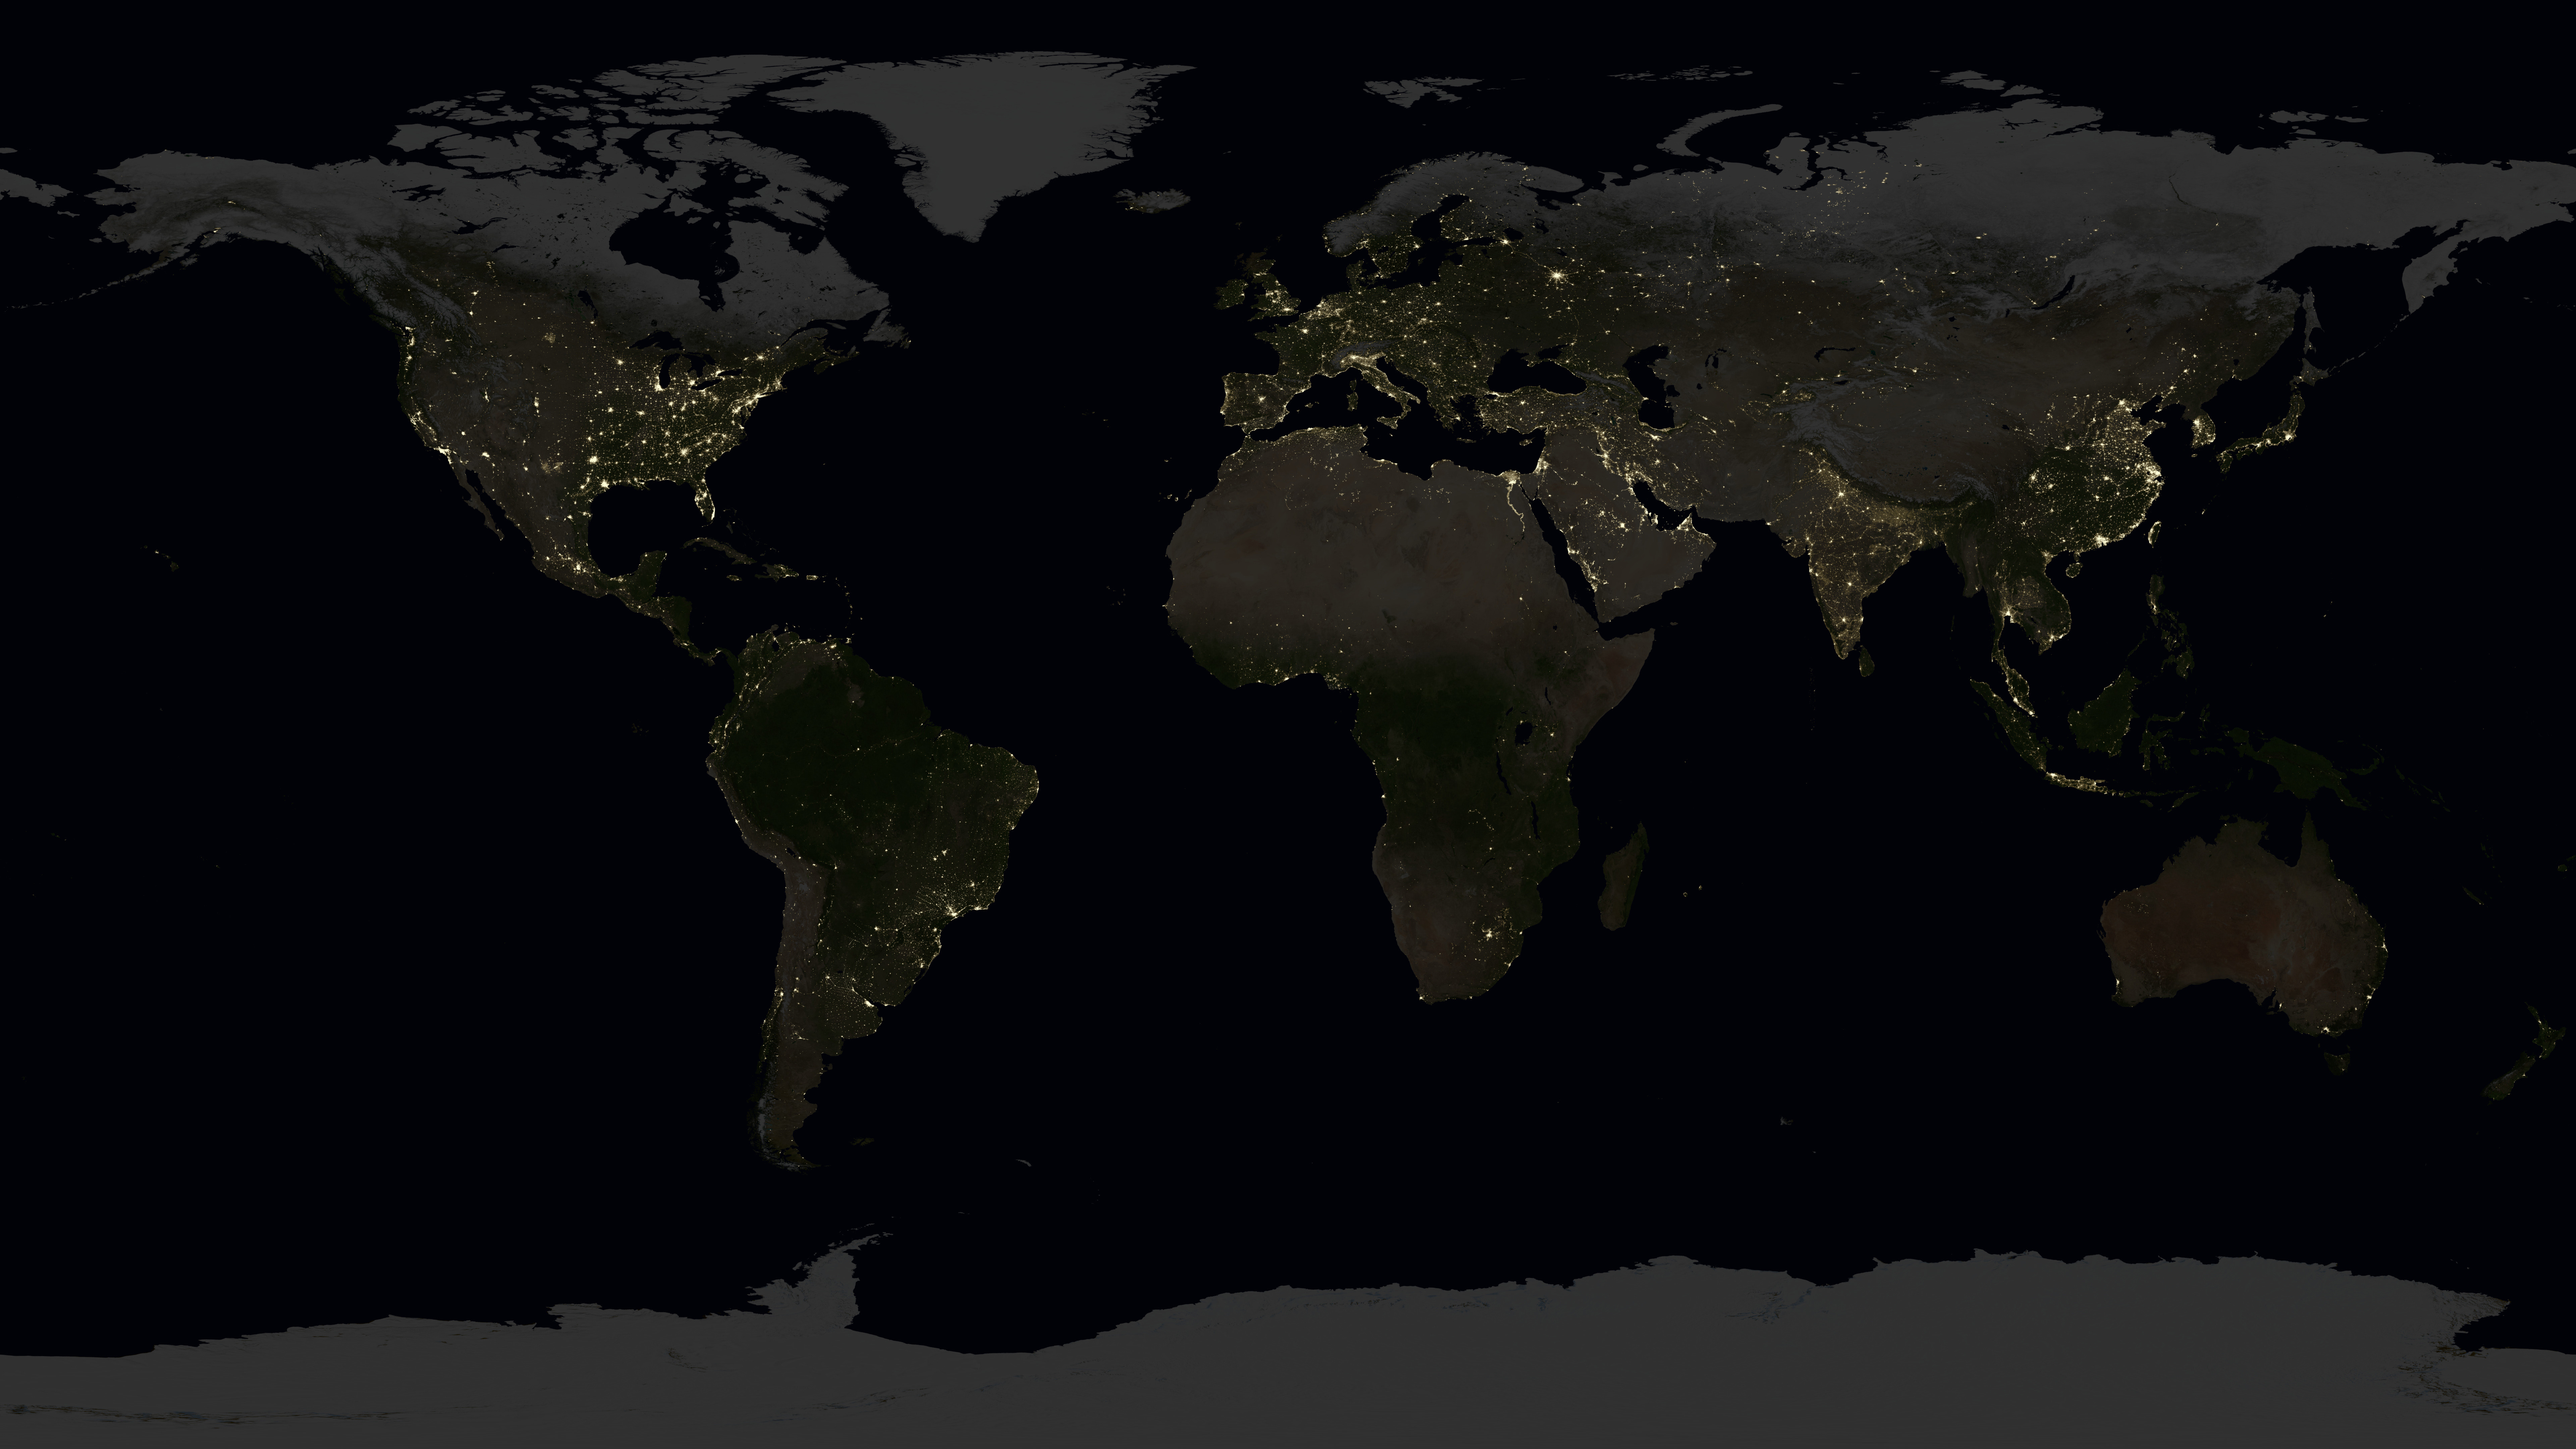
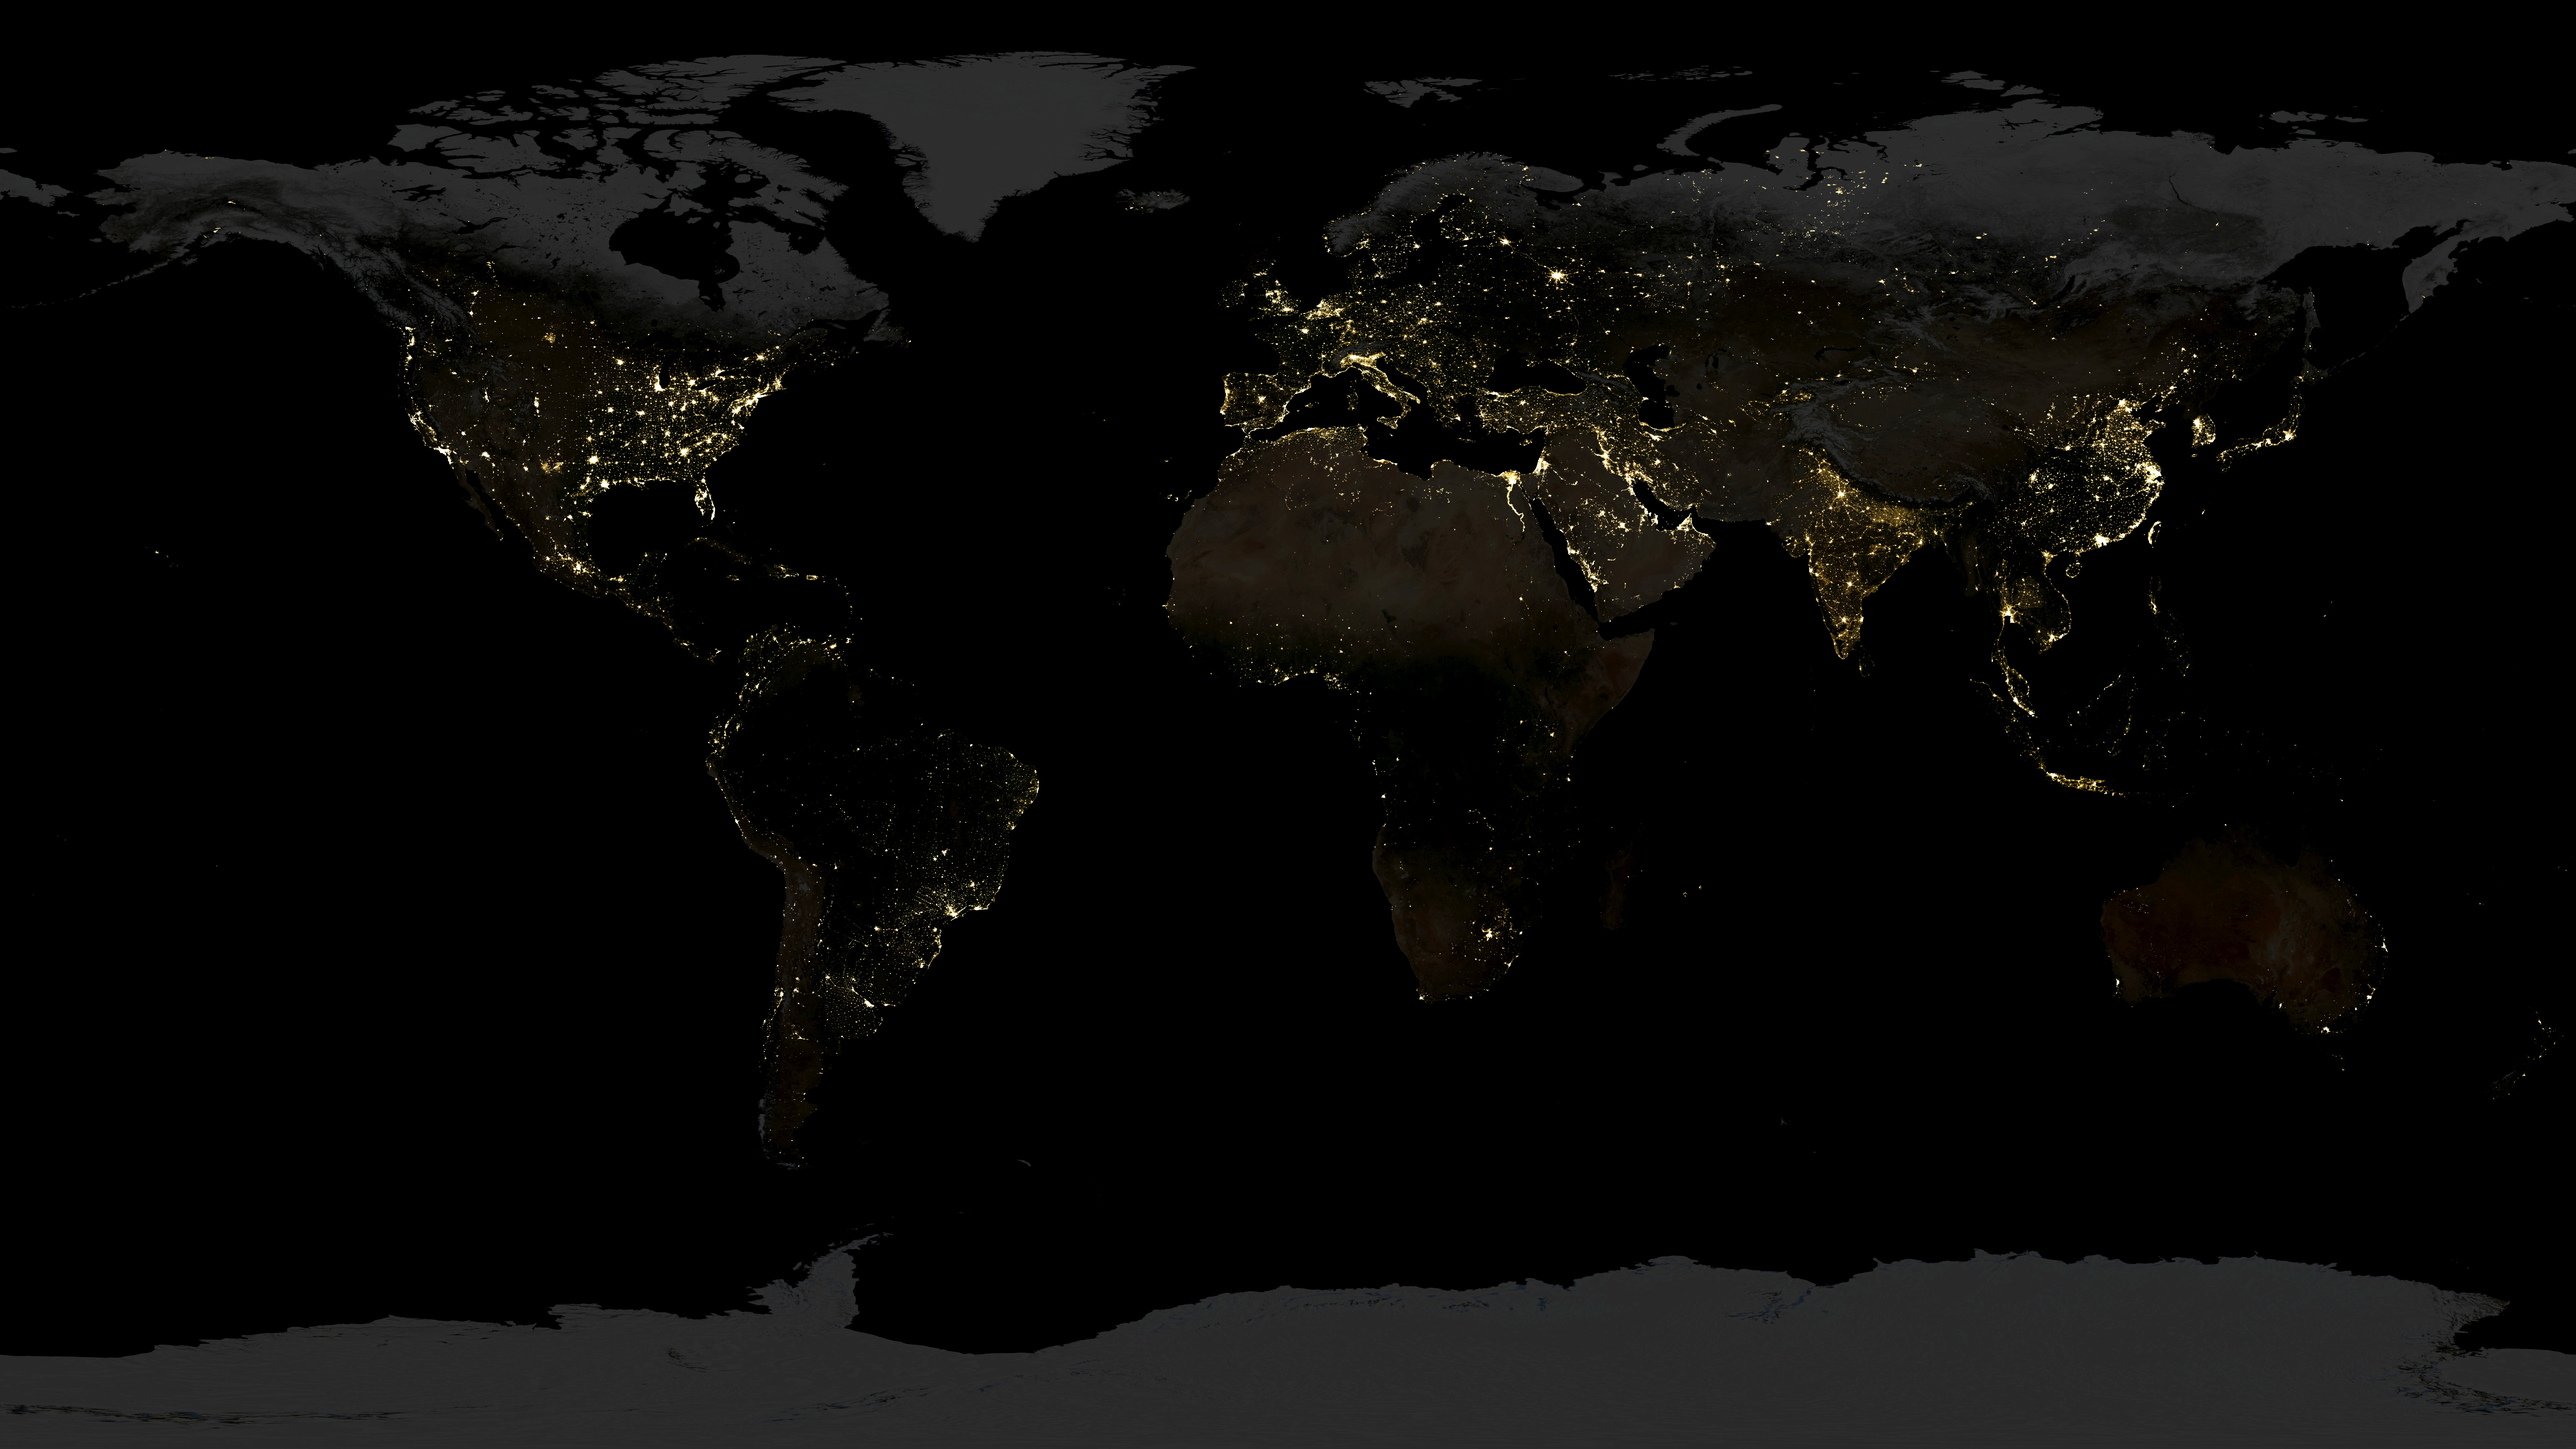
fix(globe): update params and textures

diff --git a/src/lib/utils/globeEnhancements.ts b/src/lib/utils/globeEnhancements.ts
@@ -39,36 +39,38 @@ import type { CustomRenderMethodInput } from 'maplibre-gl';
 import type maplibregl from 'maplibre-gl';
 
 /** Zoom level below which enhancements are fully opaque. */
-const FADE_IN_ZOOM = 3.0;
+const FADE_IN_ZOOM = 4.0;
 /** Zoom level above which enhancements are fully transparent. */
-const FADE_OUT_ZOOM = 7.5;
+const FADE_OUT_ZOOM = 8.0;
 
 function clamp01(value: number): number {
   return Math.min(Math.max(value, 0), 1);
 }
 
 /** Maximum opacity of the cloud layer (currently left at 0 so night lights / atmosphere stay readable). */
-const MAX_CLOUD_OPACITY = 0;
+const MAX_CLOUD_OPACITY = 0.8;
 /** Radius scale factor that floats the cloud sphere above the base globe surface. */
-const CLOUD_ALTITUDE_SCALE = 1.004;
+const CLOUD_ALTITUDE_SCALE = 1.009;
 /** Blue-white tint applied to the cloud texture colour channel. */
 const CLOUD_TINT_COLOR = new THREE.Color(0.88, 0.93, 1.0);
 /** Maximum opacity of the night-lights overlay. */
-const MAX_NIGHT_LIGHTS_OPACITY = 2;
+const MAX_NIGHT_LIGHTS_OPACITY = 1;
 /** Radius scale factor for the night-lights shell so it sits above the raster globe. */
 const NIGHT_LIGHTS_ALTITUDE_SCALE = 1.0015;
+/** Fraction of the basemap retained in the dominant blend mode; the rest is suppressed so city lights can win visually. */
+const NIGHT_LIGHTS_DOMINANT_BASEMAP_RETENTION = 0.35;
 /** Width of the smooth transition between day and night for city lights. */
 const NIGHT_LIGHTS_TERMINATOR_SOFTNESS = 0.22;
 /** Fade the night lights near the visible limb to avoid a hard edge. */
 const NIGHT_LIGHTS_LIMB_SOFTNESS = 0.22;
 /** Radius scale factor for the additive atmosphere shell. */
-const ATMOSPHERE_ALTITUDE_SCALE = 1.015;
+const ATMOSPHERE_ALTITUDE_SCALE = 1.012;
 /** Base opacity of the atmosphere shell before fresnel shaping. */
 const ATMOSPHERE_OPACITY = 1;
 /** Sky-blue day-side atmosphere tint. */
 const ATMOSPHERE_DAY_COLOR = new THREE.Color(0.34, 0.72, 1.0);
 /** Deeper twilight tint used around the terminator and dark side. */
-const ATMOSPHERE_NIGHT_COLOR = new THREE.Color(0.04, 0.16, 0.42);
+const ATMOSPHERE_NIGHT_COLOR = new THREE.Color(0.08, 0.24, 0.48);
 /** Fresnel exponent for the atmosphere rim; higher values tighten the halo. */
 const ATMOSPHERE_RIM_EXPONENT = 2.35;
 /** Start of the atmosphere night→day color blend across the terminator. */
@@ -85,9 +87,9 @@ const DEFAULT_BUMP_SCALE = 0.0045;
 /** Phong shininess exponent for ocean specular highlights. */
 const SPECULAR_SHININESS = 120.0;
 /** Overall strength of the ocean specular term after gloss/fresnel shaping. */
-const SPECULAR_INTENSITY = 1;
+const SPECULAR_INTENSITY = 1.2;
 /** Broadens the highlight so water reads less like polished metal. */
-const SPECULAR_ROUGHNESS = 0.24;
+const SPECULAR_ROUGHNESS = 0.64;
 /** Blend amount for view-angle fresnel shaping on the water highlight. */
 const SPECULAR_FRESNEL_STRENGTH = 0.12;
 /** Width of the terminator soft-transition band (in dot-product units). */
@@ -99,11 +101,13 @@ const DEFAULT_SUNLIGHT_INTENSITY = 1;
 
 /**
  * Named blend modes available for the night-lights shell.
+ * "Dominant" keeps only a fixed share of the basemap: src*alpha + dst*k.
  * "Additive" adds RGB directly (classic glow, alpha ignored by WebGL blender).
  * "Screen" approximates CSS screen blend: src + dst*(1-src) — softer glow.
  * "Normal" uses standard alpha compositing: src*alpha + dst*(1-alpha).
  */
 export const NIGHT_LIGHTS_BLEND_MODES = {
+  dominant: 'Dominant',
   additive: 'Additive',
   screen: 'Screen',
   normal: 'Normal'
@@ -211,6 +215,8 @@ const nightLightsFragmentShader = /* glsl */ `
   uniform vec3      uCameraPos;
   uniform vec3      uSunDir;
   uniform float     uOpacity;
+  uniform float     uDominantBlend;
+  uniform float     uDominantDimStrength;
   uniform float     uTerminatorSoftness;
   uniform float     uLimbSoftness;
 
@@ -228,9 +234,19 @@ const nightLightsFragmentShader = /* glsl */ `
     float nightSide = 1.0 - smoothstep(-uTerminatorSoftness, uTerminatorSoftness, nDotL);
     // Fade near the limb so the visible edge blends softly into the atmosphere.
     float limbFade = smoothstep(0.0, uLimbSoftness, nDotV);
+    float nightMask = nightSide * limbFade;
 
     vec3 nightColor = texture2D(uNightMap, vUv).rgb;
-    float alpha = max(max(nightColor.r, nightColor.g), nightColor.b) * nightSide * limbFade * uOpacity;
+    float alpha = max(max(nightColor.r, nightColor.g), nightColor.b) * nightMask * uOpacity;
+
+    if (uDominantBlend > 0.5) {
+      // In dominant mode, dim the basemap across the dark hemisphere while
+      // keeping the city-light color contribution tied to the texture itself.
+      float dimAlpha = nightMask * uDominantDimStrength;
+      gl_FragColor = vec4(nightColor * alpha, dimAlpha);
+      return;
+    }
+
     gl_FragColor = vec4(nightColor, alpha);
   }
 `;
@@ -301,7 +317,7 @@ export class GlobeEnhancementsLayer {
   private sunPolarDeg = 90;
   private sunlightIntensity = DEFAULT_SUNLIGHT_INTENSITY;
   private specularDebugEnabled = false;
-  private nightLightsBlendMode: NightLightsBlendMode = 'additive';
+  private nightLightsBlendMode: NightLightsBlendMode = 'dominant';
 
   constructor(
     private readonly cloudUrl: string,
@@ -339,17 +355,44 @@ export class GlobeEnhancementsLayer {
   }
 
   private _applyNightLightsBlendMode(mat: THREE.ShaderMaterial, mode: NightLightsBlendMode): void {
-    if (mode === 'screen') {
+    if (mode === 'dominant') {
+      // Dim the basemap only where the shader marks the dark hemisphere, while
+      // the source color carries the masked city-light contribution itself.
+      mat.blending = THREE.CustomBlending;
+      mat.blendEquation = THREE.AddEquation;
+      mat.blendSrc = THREE.OneFactor;
+      mat.blendDst = THREE.OneMinusSrcAlphaFactor;
+      mat.blendSrcAlpha = THREE.ZeroFactor;
+      mat.blendDstAlpha = THREE.OneFactor;
+      mat.blendEquationAlpha = THREE.AddEquation;
+      mat.blendAlpha = 0;
+      mat.uniforms.uDominantBlend.value = 1;
+    } else if (mode === 'screen') {
       // Screen ≈ src + dst*(1-src): use custom blending with factor ONE / ONE_MINUS_SRC_COLOR.
       mat.blending = THREE.CustomBlending;
       mat.blendEquation = THREE.AddEquation;
       mat.blendSrc = THREE.OneFactor;
       mat.blendDst = THREE.OneMinusSrcColorFactor;
+      mat.blendSrcAlpha = THREE.ZeroFactor;
+      mat.blendDstAlpha = THREE.OneFactor;
+      mat.blendEquationAlpha = THREE.AddEquation;
+      mat.blendAlpha = 0;
+      mat.uniforms.uDominantBlend.value = 0;
     } else if (mode === 'normal') {
       mat.blending = THREE.NormalBlending;
+      mat.blendSrcAlpha = null;
+      mat.blendDstAlpha = null;
+      mat.blendEquationAlpha = null;
+      mat.blendAlpha = 0;
+      mat.uniforms.uDominantBlend.value = 0;
     } else {
       // additive (default): src + dst; Three.js adds raw RGB, alpha unused by blender.
       mat.blending = THREE.AdditiveBlending;
+      mat.blendSrcAlpha = null;
+      mat.blendDstAlpha = null;
+      mat.blendEquationAlpha = null;
+      mat.blendAlpha = 0;
+      mat.uniforms.uDominantBlend.value = 0;
     }
     mat.needsUpdate = true;
   }
@@ -401,6 +444,8 @@ export class GlobeEnhancementsLayer {
         uCameraPos: { value: new THREE.Vector3(0, 0, 2) },
         uSunDir: { value: new THREE.Vector3(0, 0, 1) },
         uOpacity: { value: 0 },
+        uDominantBlend: { value: 0 },
+        uDominantDimStrength: { value: 1 - NIGHT_LIGHTS_DOMINANT_BASEMAP_RETENTION },
         uTerminatorSoftness: { value: NIGHT_LIGHTS_TERMINATOR_SOFTNESS },
         uLimbSoftness: { value: NIGHT_LIGHTS_LIMB_SOFTNESS }
       },
@@ -556,6 +601,7 @@ export class GlobeEnhancementsLayer {
       u.uCameraPos.value.copy(this._cameraPos);
       u.uSunDir.value.copy(this._sunDir);
       u.uOpacity.value = t * MAX_NIGHT_LIGHTS_OPACITY;
+      u.uDominantDimStrength.value = t * (1 - NIGHT_LIGHTS_DOMINANT_BASEMAP_RETENTION);
     }
     if (this.specMesh) {
       const u = this.specMesh.material.uniforms;

diff --git a/src/lib/components/Globe.svelte b/src/lib/components/Globe.svelte
@@ -22,7 +22,11 @@
   } from '$lib/utils/globeGeojson';
   import { fade, slide } from 'svelte/transition';
   import { PUBLIC_MAPTILER_KEY } from '$env/static/public';
-  import { GlobeEnhancementsLayer, NIGHT_LIGHTS_BLEND_MODES, type NightLightsBlendMode } from '$lib/utils/globeEnhancements';
+  import {
+    GlobeEnhancementsLayer,
+    NIGHT_LIGHTS_BLEND_MODES,
+    type NightLightsBlendMode
+  } from '$lib/utils/globeEnhancements';
 
   // ---- Props ----
   type Props = {
@@ -106,7 +110,7 @@
   let activeCityAdcode = $state<string | null>(null);
   let viewZoom = $state(1.5);
   let viewTime = $state(new Date());
-  let nightLightsBlendMode = $state<NightLightsBlendMode>('additive');
+  let nightLightsBlendMode = $state<NightLightsBlendMode>('dominant');
   let specularDebugEnabled = $state(false);
 
   // ---- Auto-rotation ----
@@ -551,14 +555,14 @@
     ['zoom'],
     // Full built-in atmosphere while zoomed out on the globe.
     0,
-    1,
+    0.4,
     // Keep it strong through the mid-zoom range so the custom atmosphere shell
     // enhances rather than replaces the built-in sky contribution.
     8,
-    1,
+    0.4,
     // Fade it back as the camera zooms in toward flat-map detail.
     10,
-    0.3
+    0.1
   ];
   const countyCache: Record<string, GlobeFeatureCollection> = {};
   const emptyData = emptyGlobeFeatureCollection();
@@ -731,7 +735,7 @@
     if (!instance.getLayer('globe-enhancements')) {
       if (!enhancementsLayer) {
         enhancementsLayer = new GlobeEnhancementsLayer(
-          `${base}/globe/Earth-clouds.png`,
+          `${base}/globe/clouds.jpg`,
           `${base}/globe/nightlights.jpg`,
           `${base}/globe/8081_earthspec10k.jpg`,
           `${base}/globe/8081_earthbump10k.jpg`
@@ -2022,9 +2026,11 @@
           <div class="flex gap-1">
             {#each Object.entries(NIGHT_LIGHTS_BLEND_MODES) as [key, label] (key)}
               <button
-                class="btn btn-xs flex-1 {nightLightsBlendMode === key ? 'btn-primary' : 'btn-ghost border-base-content/20 border'}"
-                onclick={() => (nightLightsBlendMode = key as NightLightsBlendMode)}
-              >{label}</button>
+                class="btn btn-xs flex-1 {nightLightsBlendMode === key
+                  ? 'btn-primary'
+                  : 'btn-ghost border-base-content/20 border'}"
+                onclick={() => (nightLightsBlendMode = key as NightLightsBlendMode)}>{label}</button
+              >
             {/each}
           </div>
         </label>
